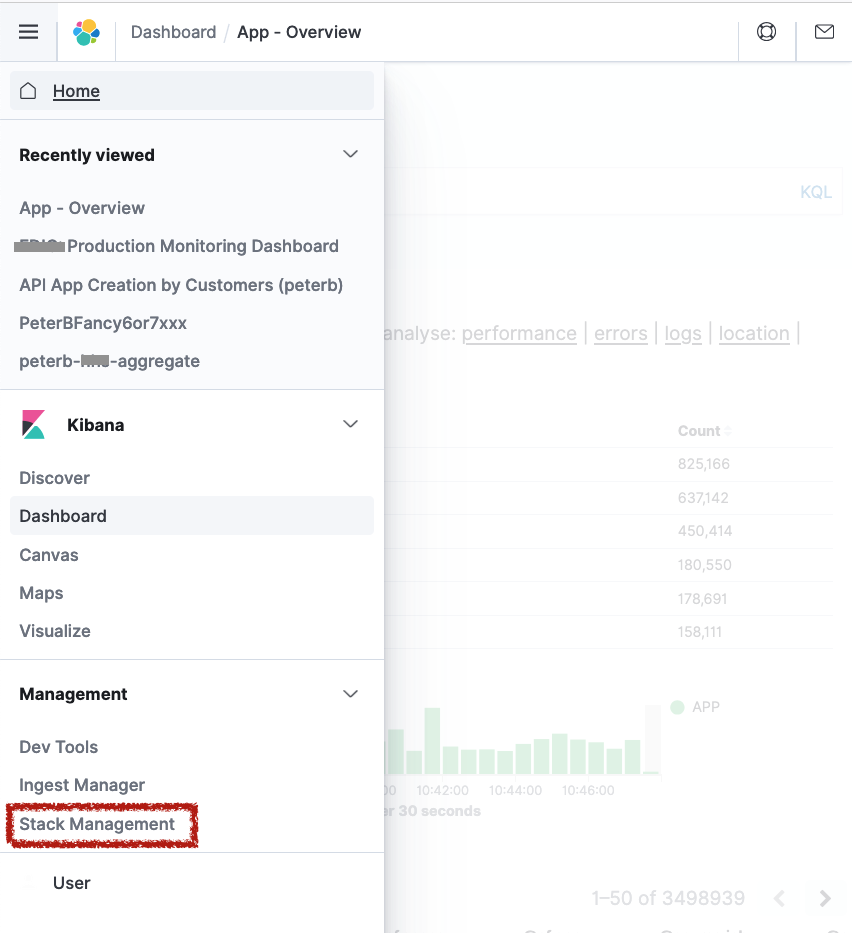
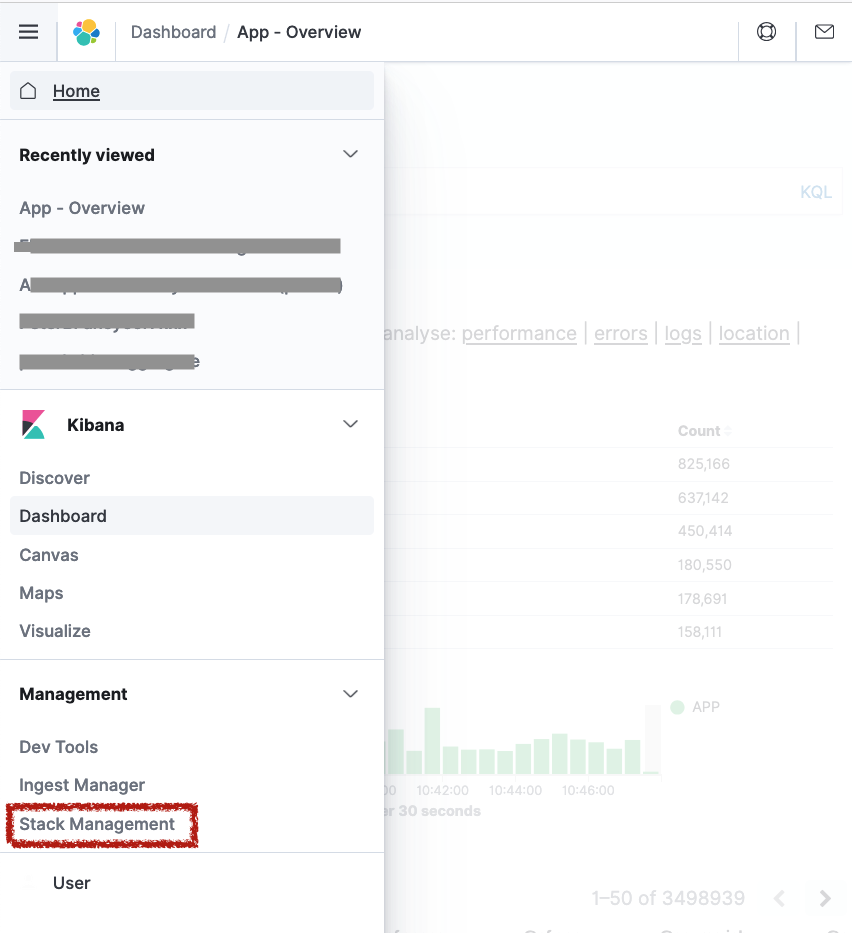
Fix typos, links, unredacted images

Changed region(s): [[0.0, 0.2487, 0.3967, 0.4041]]

diff --git a/_kbarticles/2024-12-06-migrating-opensearch.md b/_kbarticles/2024-12-06-migrating-opensearch.md
@@ -10,12 +10,15 @@ excerpt: Changes to expect in our logging system in December 2024
 
 As we [announced on November 21, 2024]({{site.base_url}}{% link _posts/2024-11-21-new-logging-system.md %}),
 we are upgrading the Cloud.gov customer application logging system and the user interface
-at https://logs.fr.cloud.gov. The application logs interface prior to December 2024
+at <https://logs.fr.cloud.gov>. The application logs interface prior to December 2024
 was based on [_Kibana_](https://www.elastic.co/kibana), and we are migrating to one
 based on [_OpenSearch Dashboards_](https://www.opensearch.org/docs/latest/dashboards/).
 
 While all the underlying functionality is unchanged, or improved, there are some
-differences between Kibana (old) and OpenSearch (new), which we'll outline here:
+differences between Kibana (old) and OpenSearch (new), which we'll outline here.
+
+**Note: You will need to [migrate your saved objects](#migrating-kibana-customizations-to-opensearch)** (searches, visualizations) from Kibana
+to OpenSearch before January 7, 2025. After that date, importing objects will require a support request.
 
 ## Logging in to the new system
 
@@ -66,10 +69,13 @@ or as individual `.ndjson` files:
 
 ### Importing saved objects into OpenSearch
 
+**If you used the same saved object in Kibana across multiple Cloud.gov orgs**,
+you will need to import it into each OpenSearch tenant (each tenant corresponds to a Cloud.gov Cloud Foundry "org").
+
 Once you've exported the objects as `.ndjson` files, switch to OpenSearch, then:
 
-* From the LeftNav menu, select, "Management -> Dashboards Management"
-* On the"Dashboards Management" window, select "Saved Objects" on the left menu
+* From the LeftNav menu, select, "Management -> Dashboards Management".
+* On the "Dashboards Management" window, select "Saved Objects" on the left menu.
 * Then select "Import" on the upper right corner.
 * On the "Import saved objects" window:
   * Select the file to upload
@@ -80,8 +86,6 @@ Once you've exported the objects as `.ndjson` files, switch to OpenSearch, then:
   * If the import results in an "Overwrite index-pattern" dialog, you will likely want to "Skip" the overwrite: ![Screenshot of Overwrite index-pattern with "Skip" selected]({{site.baseurl}}/assets/images/content/opensearch-import-overwrite-dialog.png)
   * When the import is complete, click "Done"
 
-**If you used the same saved object in Kibana across multiple Cloud.gov orgs**,
-you will need to import it into each OpenSearch tenant (org).
 
 
 ### Recovering Saved Searches and Visualizations after Kibana decomissioning
@@ -98,14 +102,14 @@ The screenshot below show some of the major changes to the user interfaces, such
 2. The "Top 5 values" for a field view is now an option to the right of the field, instead of a double-click
 3. There are a lot more values gathered for container metrics
 
-![Screenshot comparing Kibana to OpenSearch]({{site.baseurl}}/assets/images/content/opensearch-ui-diffences.png)
+![Screenshot comparing Kibana to OpenSearch]({{site.baseurl}}/assets/images/content/opensearch-ui-differences.png)
 
 ## Key system differences
 
 The Cloud.gov team has implemented OpenSearch to deliver a number of benefits to our customers. Among these are:
 
-* Twelve months of live access to system logs, in alignment with M-21-31.
-* Definitions of saved searches and visualizations are now isolated by Cloud.gov organization.
+* Twelve months of live access to system logs, in alignment with [M-21-31](https://www.whitehouse.gov/wp-content/uploads/2021/08/M-21-31-Improving-the-Federal-Governments-Investigative-and-Remediation-Capabilities-Related-to-Cybersecurity-Incidents.pdf).
+* Definitions of saved searches and visualizations are now isolated by OpenSearch tenants that correspond to Cloud.gov organizations.
   * You no longer need to worry about choosing a globally unique name.
   * If you share the same saved object across multiple orgs, you will need to import it into each of your orgs.
 * Better handling of large log messages. Both Kibana/ELK and OpenSearch have a 32kb limit on message size. The older system dropped such messages from Kibana (although they were still retained in cold storage), the newer system keeps the first 32kb and discards the rest
@@ -113,13 +117,13 @@ The Cloud.gov team has implemented OpenSearch to deliver a number of benefits to
   * Extremely large log messages (over 1Gb) are trimmed and tagged `_logtrimmed` -- such message are probably indicative of a coding error in your application.
   * You can search for such messages with a filter of `@logs is one of "_messagetrimmed", "_logtrimmed"`, as shown here
   ![Screenshot from OpenSearch edit filter with settings as described above]({{site.baseurl}}/assets/images/content/opensearch-logtrimmed.png)
-* AWS Brokered Service Logs (Beta): If your Cloud.gov organization had already arranged Cloudwatch ingest of RDS database logs, then you can filter for those logs with the filter `@version: 1`. Most databases, as of December 2024, are not shipped to Cloudwatch and OpenSearch.
+* AWS Brokered Service Logs (Beta): If your Cloud.gov organization had already arranged Cloudwatch ingest of RDS database logs, then you can filter for those logs with the filter `@version: 1`. Most databases, as of December 2024, are not yet shipped to Cloudwatch and OpenSearch.
   * Cloud.gov will be expanding the availability and features of RDS logs, and other brokered services, in 2025. This is a [beta feature]({{site.baseurl}}/docs/services/intro/#support-status) and subject to change.
-* JSON log parsing: Custom logs are not at risk of being dropped because of index field limits. JSON logs are now ingested using the [flat_object field type](https://opensearch.org/docs/latest/field-types/supported-field-types/flat-object/) in OpenSearch. The flat_object field type allows for [searching nested fields of a JSON object](https://opensearch.org/docs/latest/field-types/supported-field-types/flat-object/#using-flat-object) using dot notation.
+* JSON log parsing: Custom logs are not at risk of being dropped because of index field limits. JSON logs are now ingested using the [flat_object field type](https://opensearch.org/docs/latest/field-types/supported-field-types/flat-object/) in OpenSearch. The `flat_object` field type allows for [searching nested fields of a JSON object](https://opensearch.org/docs/latest/field-types/supported-field-types/flat-object/#using-flat-object) using dot notation.
 * Additional container metrics: We now log additional container metrics, available under the `containermetric.name` field. Particularly useful is the `containermetric.name: cpu_entitlement`, which is a way to track whether you're [exceeding the allowed CPU for your apps](https://www.cloudfoundry.org/blog/better-way-split-cake-cpu-entitlements/).
 
 ## Reporting Issues and Getting Help
 
-Report any undocumented issues you encounter, or questions you may have, to support@cloud.gov.
+Report any undocumented issues you encounter, or questions you may have, to <support@cloud.gov>.
 
 

diff --git a/_posts/2024-11-21-new-logging-system.md b/_posts/2024-11-21-new-logging-system.md
@@ -57,4 +57,4 @@ The [Cloud.gov deprecation policy](http://cloud.gov) calls for a longer transiti
 
 ## Updates
 
-December 6, 2024: [Changes to expect with the December 2024 logging update]({{site.baseurl}}{% link _kbarticles/2024-12-06-migrating-opensearch.md %})
+December 6, 2024: [Changes to expect with the December 2024 logging update]({{site.baseurl}}/knowledge-base/2024-12-06-migrating-opensearch/)
